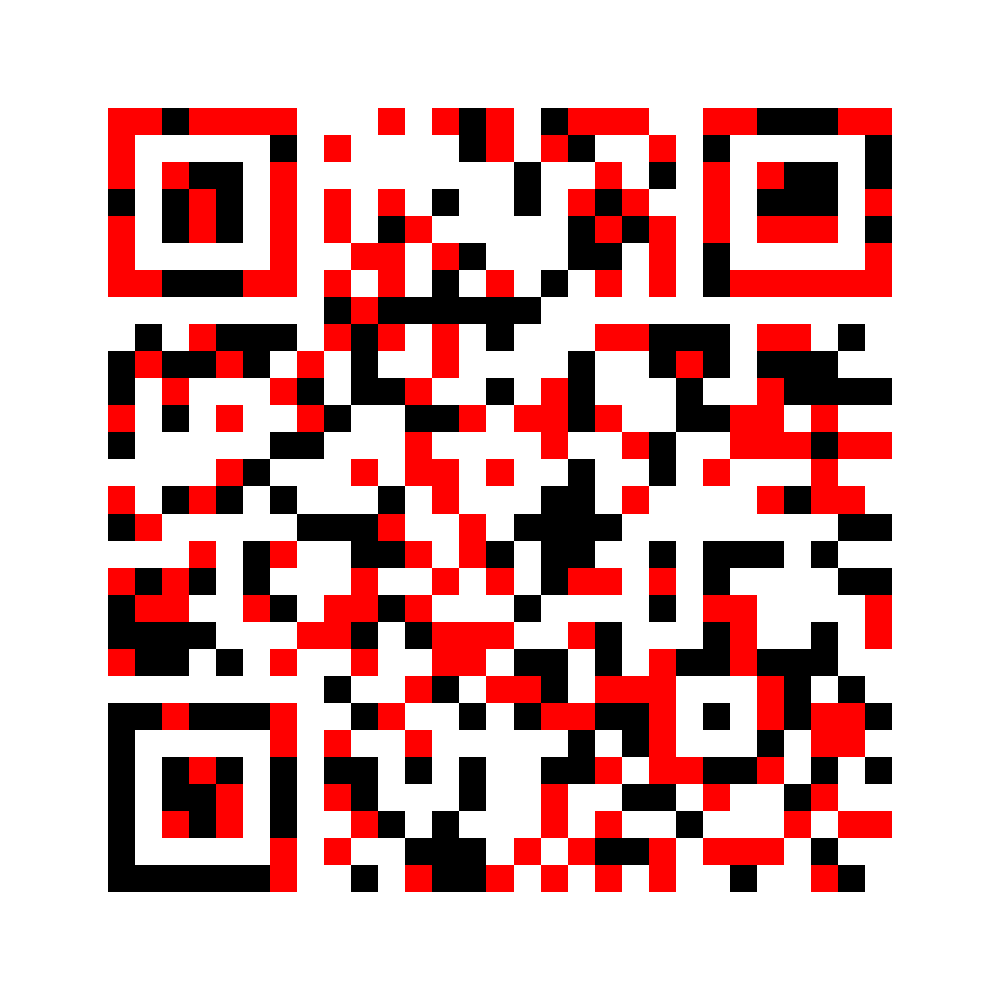
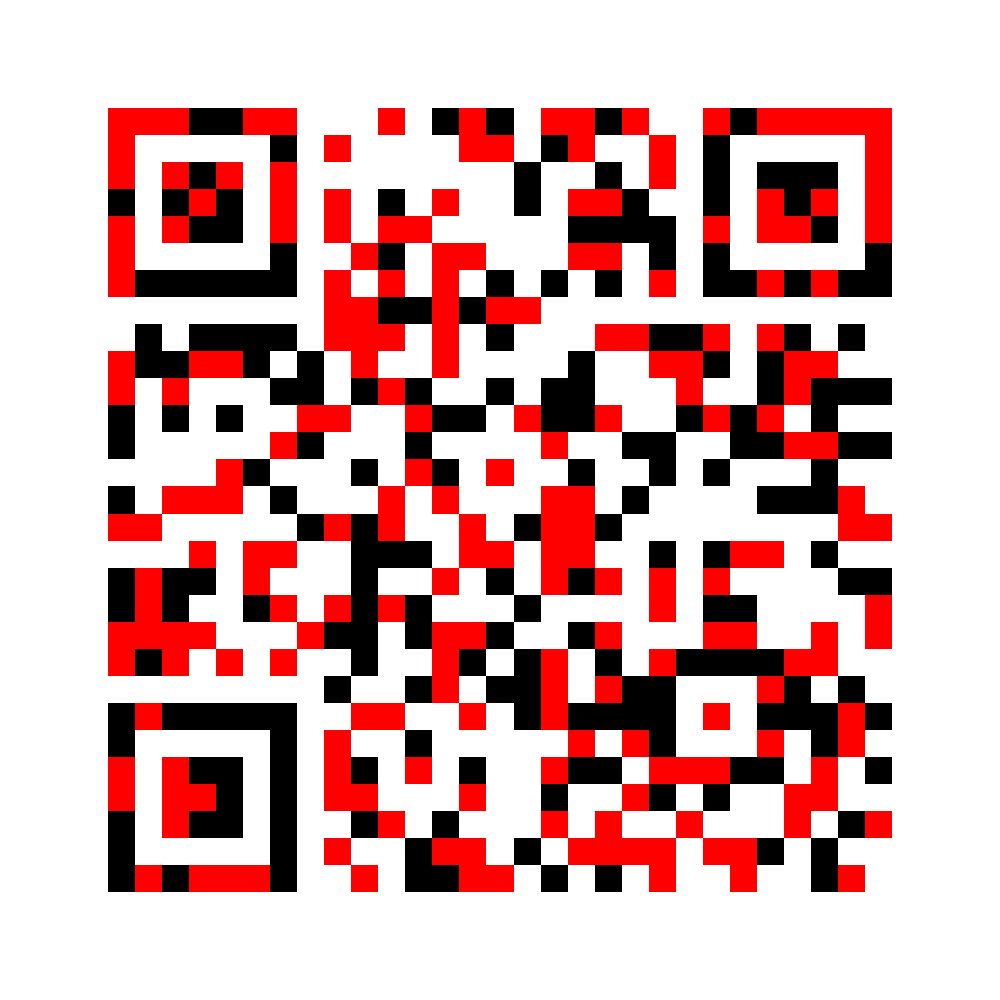
feat: Add cli qrcode to create qrcodes

diff --git a/barcodes_uc/qrcodes/__main__.py b/barcodes_uc/qrcodes/__main__.py
@@ -2,9 +2,33 @@
 
 #imports
 import argparse
+from . import qrgenerator, qrutils
 
 def main():
-    print('Hello World')
+    # Create the parser
+    parser = argparse.ArgumentParser(description='Create QR codes', prog='qrcode', epilog='Made by Pedro Juan Royo, @UnstrayCato')
+
+    # Add the arguments
+    parser.add_argument('message', metavar='message', type=str, help='Message to encode')
+    parser.add_argument('-e', '--encoding', type=str, help='Encoding of the message', choices=['byte', 'numeric', 'alphanumeric', 'kanji'], required=True)
+    parser.add_argument('-V', '--qr-version', type=int, help='QR version, 1-40')
+    parser.add_argument('-E', '--qr-error-correction', help='QR error correction', choices=['L', 'M', 'Q', 'H'])
+
+    # Execute the parse_args() method
+    args = parser.parse_args()
+    
+    encoding = qrutils.QREncoding[args.encoding]
+
+    if args.qr_version and args.qr_error_correction:
+        version = qrutils.QRVersion[args.qr_version]
+        error_correction = qrutils.QRErrorCorrectionLevels[args.qr_error_correction]
+        generator = qrgenerator.QRGenerator(args.message, encoding, version, error_correction)
+    else:
+        version, error_correction = qrgenerator.get_min_version(args.message, encoding, qrutils.QRErrorCorrectionLevels.Q)
+        generator = qrgenerator.QRGenerator(args.message, encoding, version, error_correction)
+
+    qr = generator.generate()
+    qr.show()
 
 if __name__ == '__main__':
     main()
